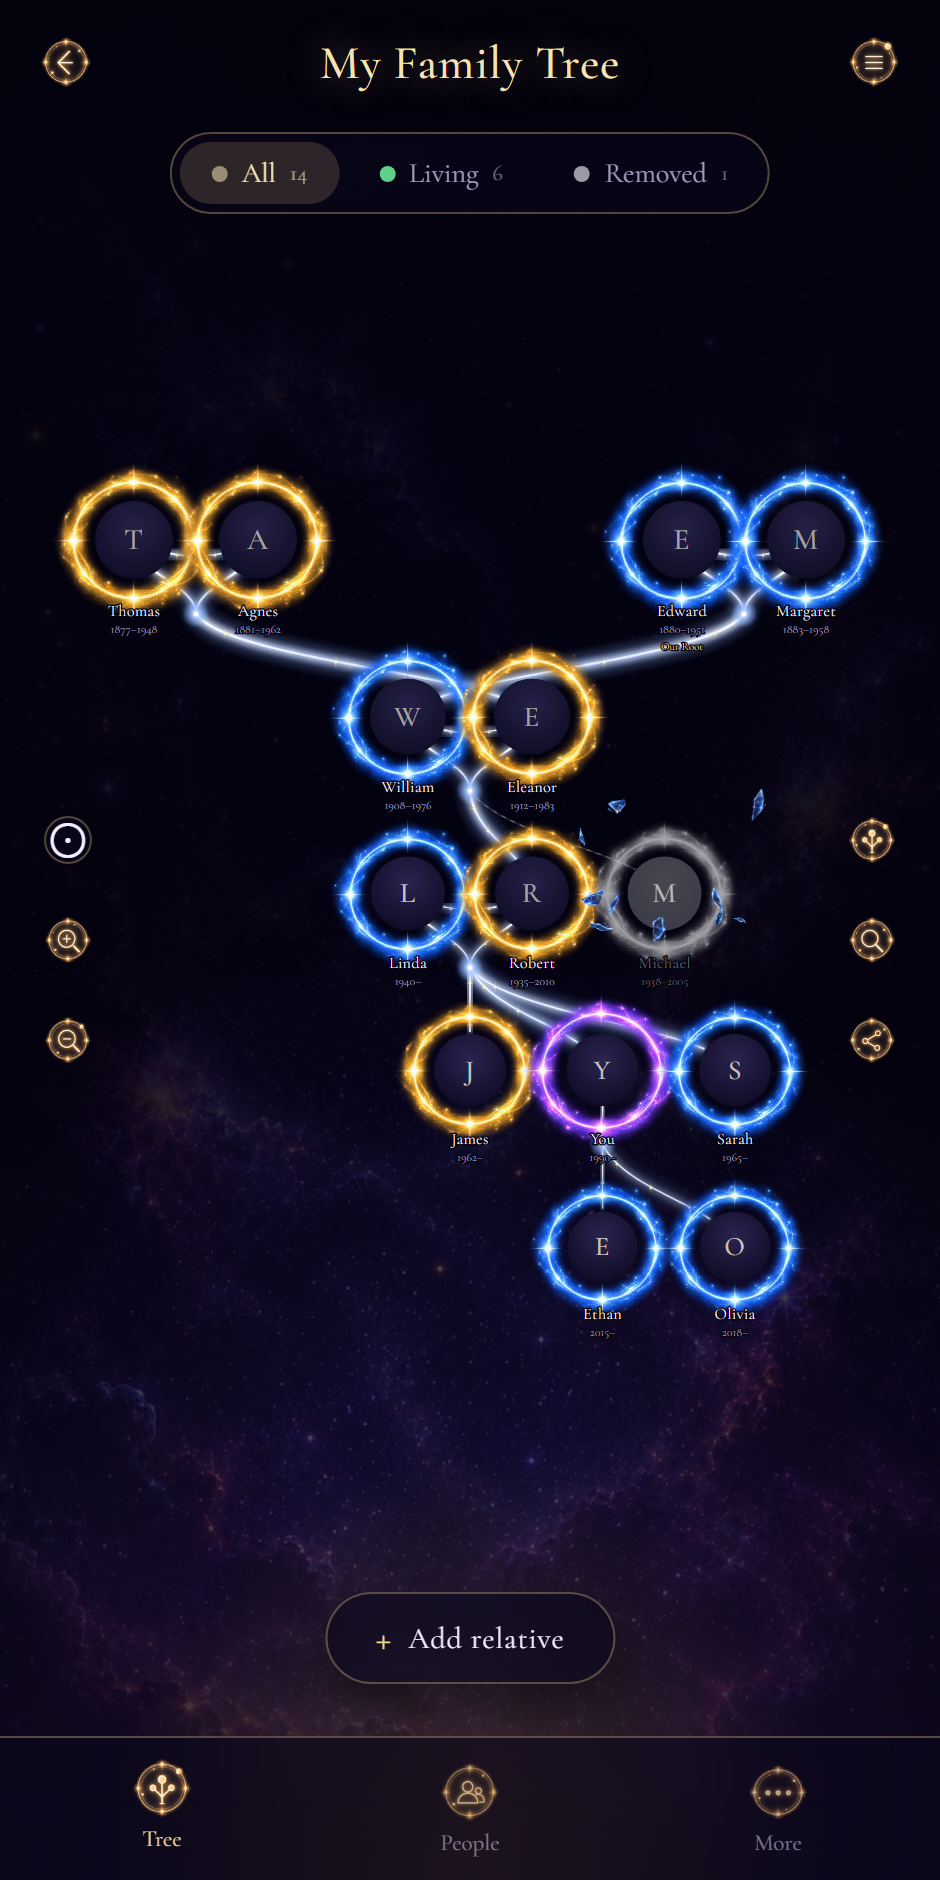
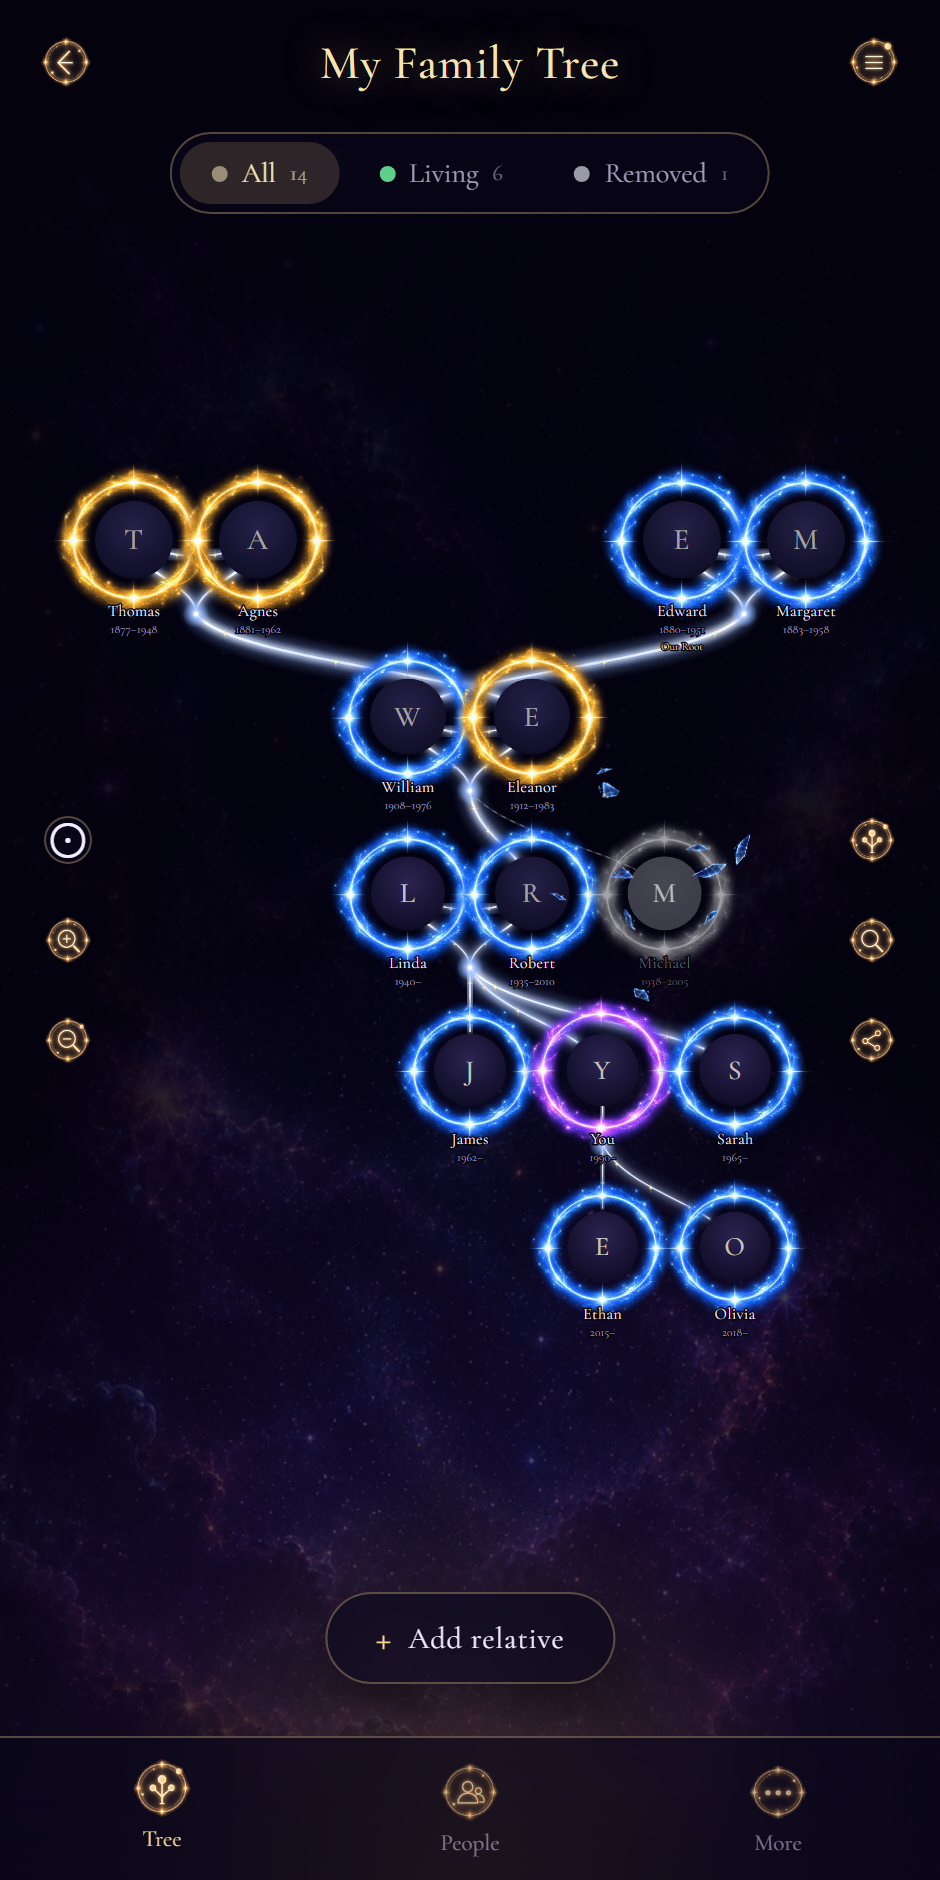
fix

Changed region(s): [[0.4011, 0.4011, 0.8021, 0.617], [0.6787, 0.4936, 0.7404, 0.5245], [0.8021, 0.4011, 0.833, 0.4319]]

diff --git a/src/lib/layout.ts b/src/lib/layout.ts
@@ -58,6 +58,11 @@ type Graph = {
   siblingsOf: Map<string, string[]>
 }
 
+/** Stable ordering for records that arrive from Firestore in id order. */
+export function byCreation<T extends { id: string; createdAt?: number }>(a: T, b: T) {
+  return (a.createdAt ?? 0) - (b.createdAt ?? 0) || a.id.localeCompare(b.id)
+}
+
 function push(map: Map<string, string[]>, key: string, value: string) {
   const list = map.get(key)
   if (list) {
@@ -338,9 +343,15 @@ export function computeLayout(
   const peopleById = new Map(people.map((p) => [p.id, p]))
   const known = new Set(peopleById.keys())
   // Ignore relationships pointing at people who no longer exist.
-  const rels = relationships.filter(
-    (r) => known.has(r.fromPersonId) && known.has(r.toPersonId) && r.fromPersonId !== r.toPersonId,
-  )
+  const rels = relationships
+    .filter(
+      (r) => known.has(r.fromPersonId) && known.has(r.toPersonId) && r.fromPersonId !== r.toPersonId,
+    )
+    // Firestore hands collections back ordered by document id, so the array
+    // arrives in a different order than it was written. Several decisions below
+    // read "the first parent", so sort into a stable order first — otherwise the
+    // same tree could lay itself out differently after a reload.
+    .sort(byCreation)
 
   const g = buildGraph(rels)
   const depth = computeDepths(people, rels)

diff --git a/src/lib/lineage.ts b/src/lib/lineage.ts
@@ -1,3 +1,4 @@
+import { byCreation } from './layout'
 import type { Person, Relationship } from '../types'
 
 /**
@@ -16,7 +17,9 @@ export function assignLineage(
 ): Record<string, number> {
   const parentsOf = new Map<string, string[]>()
   const spousesOf = new Map<string, string[]>()
-  for (const r of relationships) {
+  // Walking "the first parent" only gives a stable answer if the relationships
+  // are in a stable order — Firestore returns them ordered by document id.
+  for (const r of [...relationships].sort(byCreation)) {
     if (r.type === 'parent') {
       parentsOf.set(r.toPersonId, [...(parentsOf.get(r.toPersonId) ?? []), r.fromPersonId])
     } else if (r.type === 'spouse') {
